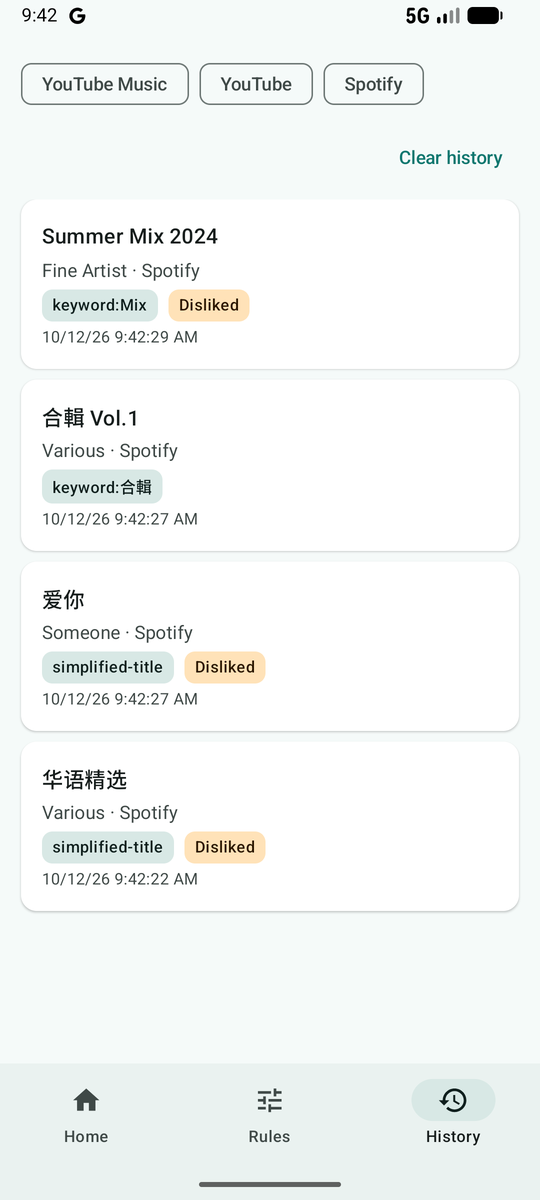
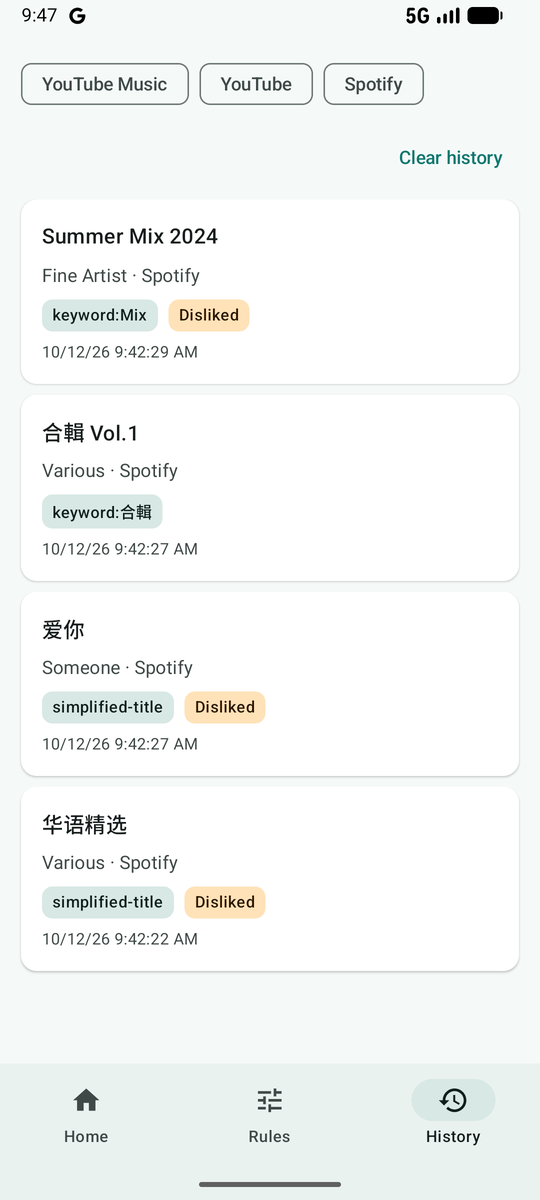
UI redesign review fixes: History uses SectionCard, CONTRIBUTING version, environment note; archive ui-redesign

diff --git a/app/src/main/kotlin/com/mediaautoskipper/ui/HistoryScreen.kt b/app/src/main/kotlin/com/mediaautoskipper/ui/HistoryScreen.kt
@@ -13,8 +13,6 @@ import androidx.compose.foundation.lazy.items
 import androidx.compose.foundation.rememberScrollState
 import androidx.compose.foundation.shape.RoundedCornerShape
 import androidx.compose.material3.AlertDialog
-import androidx.compose.material3.Card
-import androidx.compose.material3.CardDefaults
 import androidx.compose.material3.FilterChip
 import androidx.compose.material3.MaterialTheme
 import androidx.compose.material3.Surface
@@ -129,36 +127,29 @@ fun HistoryContent(
         } else {
             LazyColumn(verticalArrangement = Arrangement.spacedBy(Dimens.sm)) {
                 items(shown, key = { it.id }) { r ->
-                    Card(
-                        Modifier.fillMaxWidth(),
-                        shape = RoundedCornerShape(Dimens.cardRadius),
-                        colors = CardDefaults.cardColors(containerColor = MaterialTheme.colorScheme.surfaceContainerLow),
-                        elevation = CardDefaults.cardElevation(defaultElevation = 1.dp),
-                    ) {
-                        Column(Modifier.padding(Dimens.md), verticalArrangement = Arrangement.spacedBy(Dimens.xs)) {
-                            Text(r.title.ifBlank { "—" }, style = MaterialTheme.typography.titleMedium)
-                            Text(
-                                listOf(r.artist, playerLabel(r.pkg)).filter { it.isNotBlank() }.joinToString(" · "),
-                                style = MaterialTheme.typography.bodyMedium,
-                                color = MaterialTheme.colorScheme.onSurfaceVariant,
-                            )
-                            Row(horizontalArrangement = Arrangement.spacedBy(Dimens.sm), verticalAlignment = Alignment.CenterVertically) {
-                                Pill(r.reason, MaterialTheme.colorScheme.secondaryContainer, MaterialTheme.colorScheme.onSecondaryContainer)
-                                if (r.disliked) {
-                                    Pill(
-                                        stringResource(R.string.history_disliked),
-                                        MaterialTheme.colorScheme.tertiaryContainer,
-                                        MaterialTheme.colorScheme.onTertiaryContainer,
-                                        Modifier.testTag(HistoryTags.disliked(r.id)),
-                                    )
-                                }
+                    SectionCard(title = null) {
+                        Text(r.title.ifBlank { "—" }, style = MaterialTheme.typography.titleMedium)
+                        Text(
+                            listOf(r.artist, playerLabel(r.pkg)).filter { it.isNotBlank() }.joinToString(" · "),
+                            style = MaterialTheme.typography.bodyMedium,
+                            color = MaterialTheme.colorScheme.onSurfaceVariant,
+                        )
+                        Row(horizontalArrangement = Arrangement.spacedBy(Dimens.sm), verticalAlignment = Alignment.CenterVertically) {
+                            Pill(r.reason, MaterialTheme.colorScheme.secondaryContainer, MaterialTheme.colorScheme.onSecondaryContainer)
+                            if (r.disliked) {
+                                Pill(
+                                    stringResource(R.string.history_disliked),
+                                    MaterialTheme.colorScheme.tertiaryContainer,
+                                    MaterialTheme.colorScheme.onTertiaryContainer,
+                                    Modifier.testTag(HistoryTags.disliked(r.id)),
+                                )
                             }
-                            Text(
-                                format.format(Date(r.timeMillis)),
-                                style = MaterialTheme.typography.bodySmall,
-                                color = MaterialTheme.colorScheme.onSurfaceVariant,
-                            )
                         }
+                        Text(
+                            format.format(Date(r.timeMillis)),
+                            style = MaterialTheme.typography.bodySmall,
+                            color = MaterialTheme.colorScheme.onSurfaceVariant,
+                        )
                     }
                 }
                 item { Box(Modifier.padding(bottom = Dimens.md)) }

diff --git a/docs/spectra/specs/filter-settings-ui/spec.md b/docs/spectra/specs/filter-settings-ui/spec.md
@@ -78,7 +78,7 @@ The app SHALL store keywords, regular expression rules, toggles and the monitore
 ---
 ### Requirement: Per-rule dislike option
 
-Each keyword rule, each regular expression rule and the Simplified Chinese rule SHALL have its own option "also mark as dislike", off by default. The option SHALL be stored with the settings and survive an app restart. The Rules screen SHALL show a note that marking a rule affects the user's account recommendations and cannot be undone by the app.
+Each keyword rule, each regular expression rule and the Simplified Chinese rule SHALL have its own option "also mark as dislike", off by default. The option SHALL be stored with the settings and survive an app restart. The Rules screen SHALL show a warning, in a visually distinct card, that marking a rule affects the user's account recommendations and cannot be undone by the app, and that it makes skipping slower and less reliable because the app waits before acting and some players move on by themselves or ignore the skip.
 
 #### Scenario: Default is off
 
@@ -99,6 +99,27 @@ Each keyword rule, each regular expression rule and the Simplified Chinese rule 
 
 - **WHEN** the Simplified Chinese rule is turned off
 - **THEN** its dislike option is disabled
+
+#### Scenario: Warning about slower skipping
+
+- **WHEN** the user opens the Rules screen
+- **THEN** a warning is shown that names three consequences: the dislike is written to the account and affects recommendations, the app cannot undo it, and skipping becomes slower and less reliable
+
+#### Scenario: Warning in every language
+
+- **WHEN** the interface language is any of the five supported languages
+- **THEN** the warning is shown in that language
+
+
+<!-- @trace
+source: ui-redesign
+updated: 2026-10-12
+code:
+  - app/src/main/kotlin/com/mediaautoskipper/ui/HistoryScreen.kt
+  - docs/screenshots/history.png
+  - CONTRIBUTING.md
+  - docs/queue-probe-notes.md
+-->
 
 ---
 ### Requirement: Dislike option follows rule edits

diff --git a/docs/queue-probe-notes.md b/docs/queue-probe-notes.md
@@ -80,3 +80,7 @@ YouTube Music regression (custom action path, rule "Mix" marked): dislike sent a
 
 Accounts affected by these tests: the YouTube video "Shakira & Burna Boy - Dai Dai" (rated and unrated several times, ended rated as a dislike) and several "Dance Workout Mix" tracks on YouTube Music (Bad Habits, Coming Home, Mood and the next ones in that album) were disliked.
 
+
+## Screenshots and visual checks (change `ui-redesign`)
+
+The README screenshots (`docs/screenshots/home.png`, `rules.png`, `history.png`) were taken on an Android emulator (API 37, 1080x2400, English, light theme) with the fake player and these rules: Simplified Chinese and "Mix" marked as dislike, the other defaults unmarked. They show the 0.2.0 build. The dark theme was checked by eye on the same emulator (History and Rules tabs): no clipped text and the warning card stays readable; no automated contrast check was run. A signed release build of 0.2.0 was built and verified with `apksigner verify`.

diff --git a/CONTRIBUTING.md b/CONTRIBUTING.md
@@ -4,7 +4,7 @@ English first, 繁體中文 follows below. / 英文在前,繁體中文在後。
 
 ## Developer guide
 
-Media Auto-Skipper is version 0.1.0. Contributions are welcome: bug reports, translations, and code. By contributing you agree your work is released under the [MIT license](LICENSE).
+Media Auto-Skipper is version 0.2.0. Contributions are welcome: bug reports, translations, and code. By contributing you agree your work is released under the [MIT license](LICENSE).
 
 ### Ground rules
 
@@ -95,7 +95,7 @@ Requirements live in `docs/spectra/specs/` and finished changes in `docs/spectra
 
 ## 開發者指南
 
-Media Auto-Skipper 目前是 0.1.0 版。歡迎回報問題、貢獻翻譯與程式碼。提交貢獻即表示你同意以 [MIT 授權](LICENSE)釋出你的內容。
+Media Auto-Skipper 目前是 0.2.0 版。歡迎回報問題、貢獻翻譯與程式碼。提交貢獻即表示你同意以 [MIT 授權](LICENSE)釋出你的內容。
 
 ### 基本原則
 
